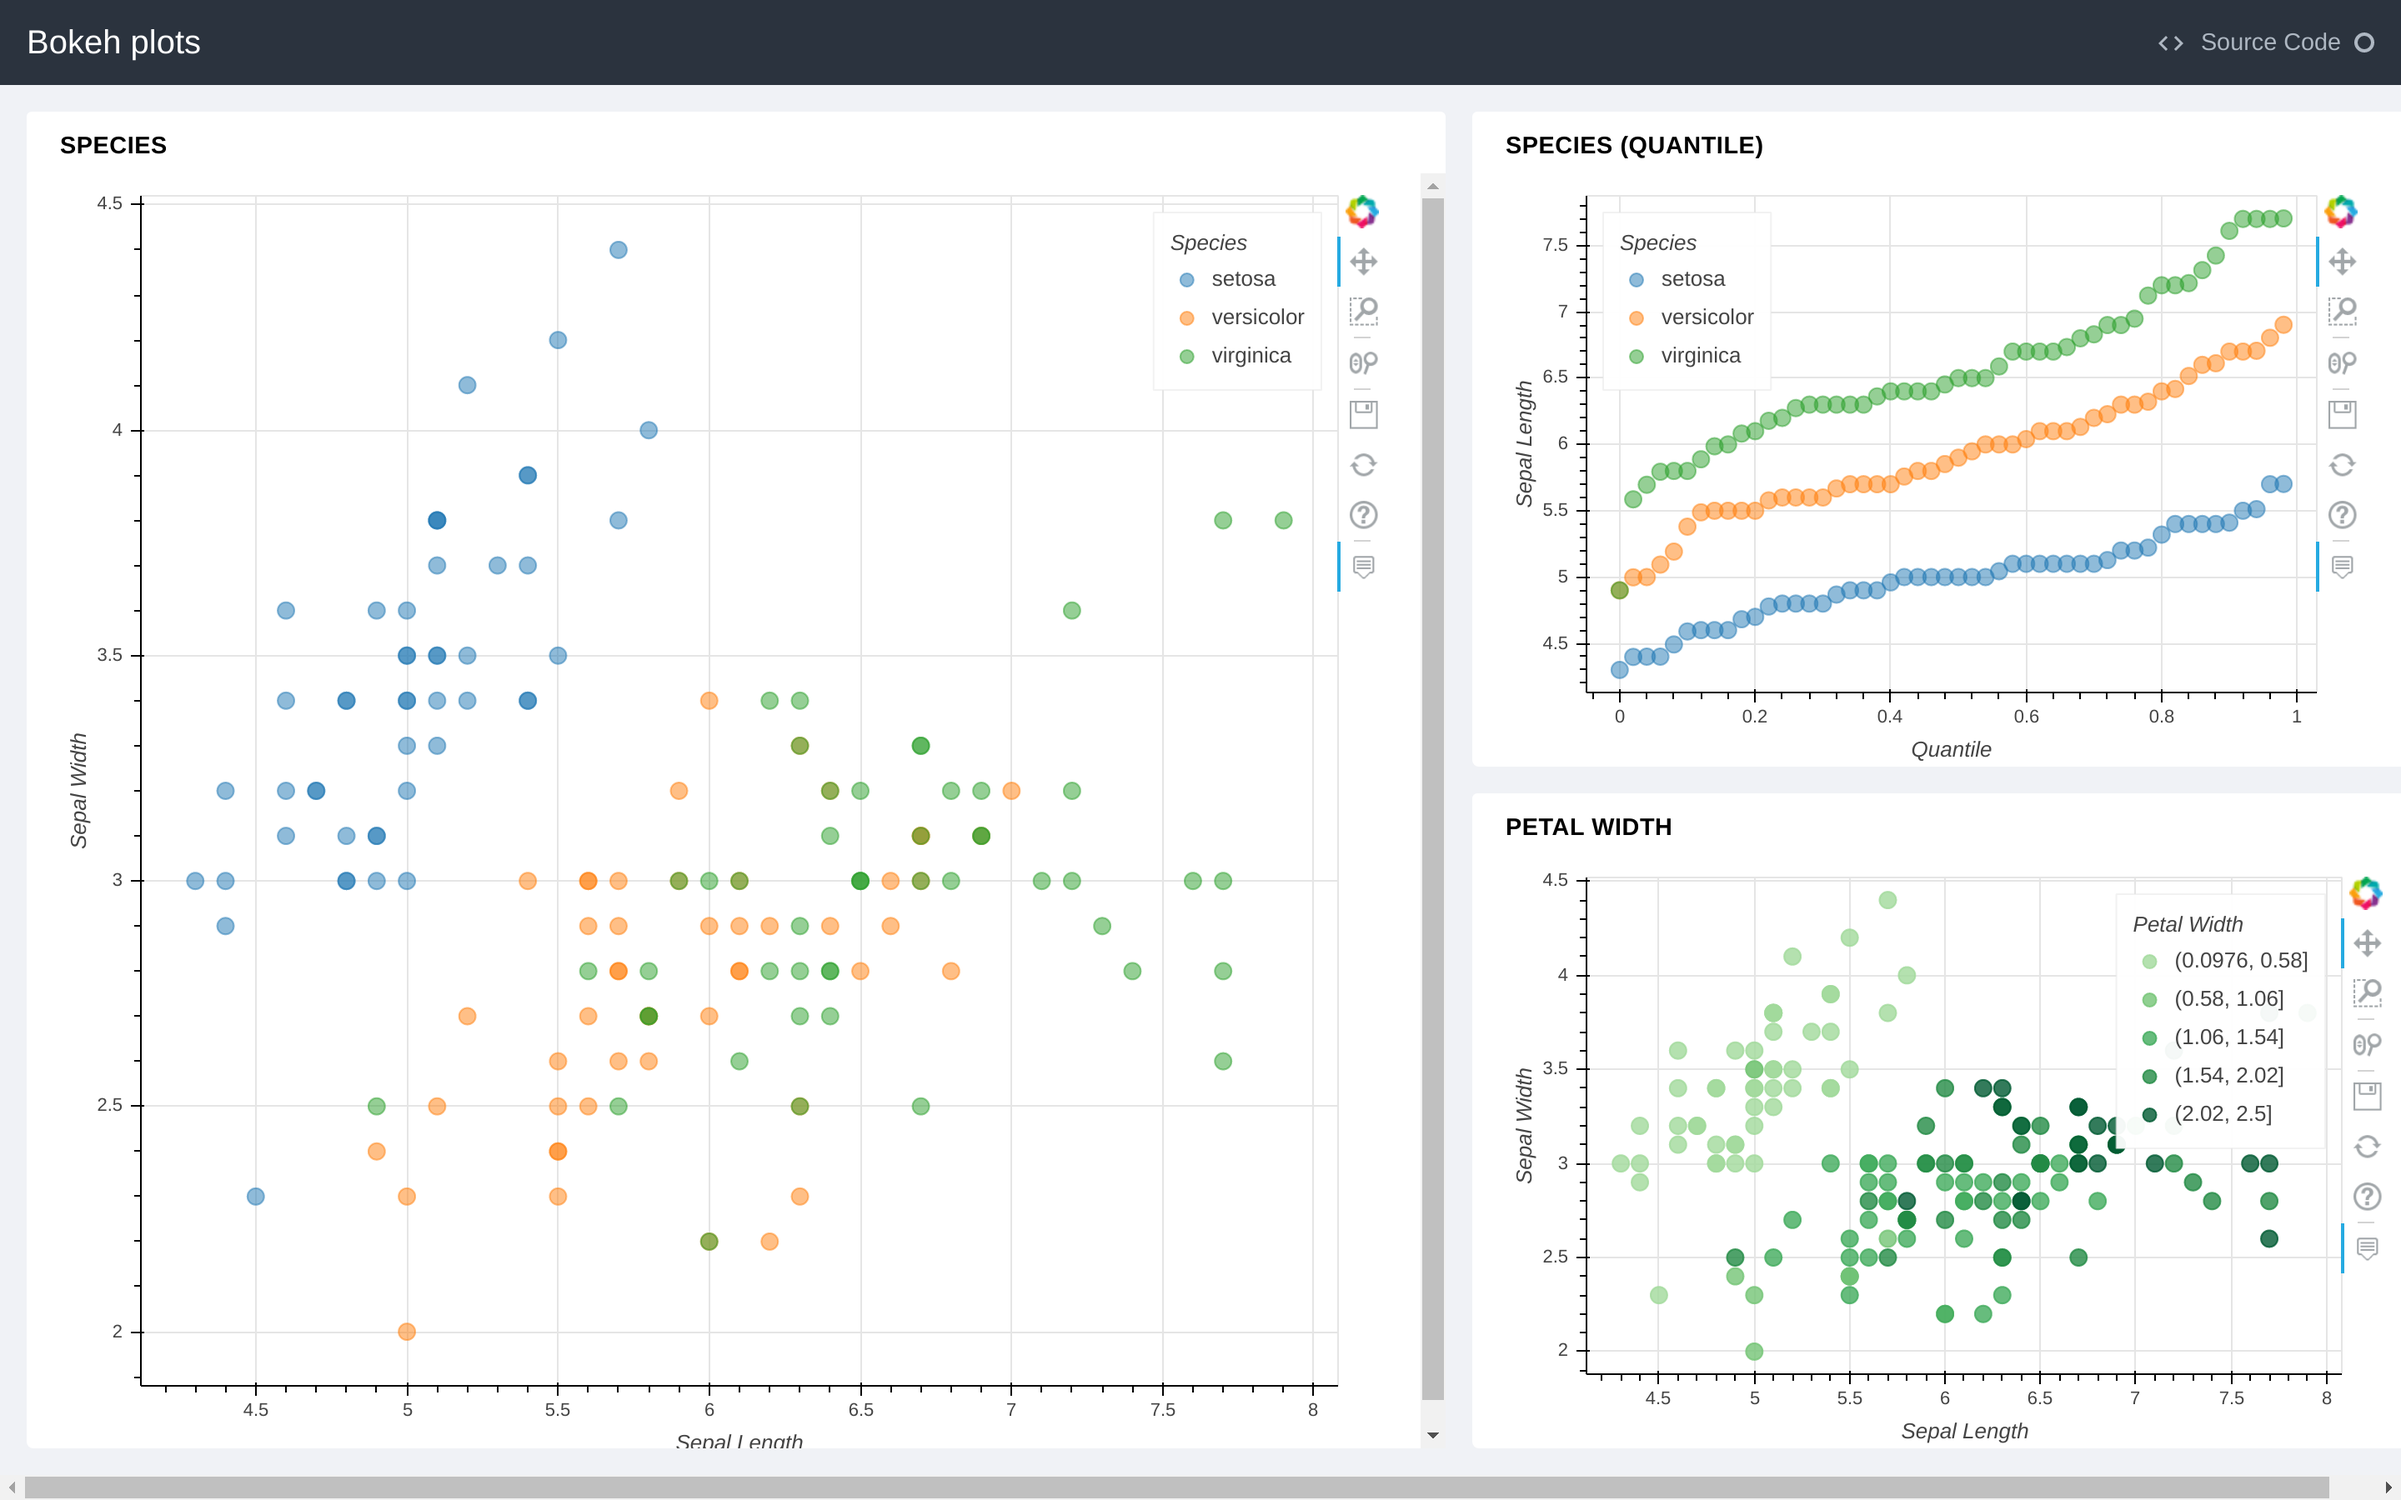
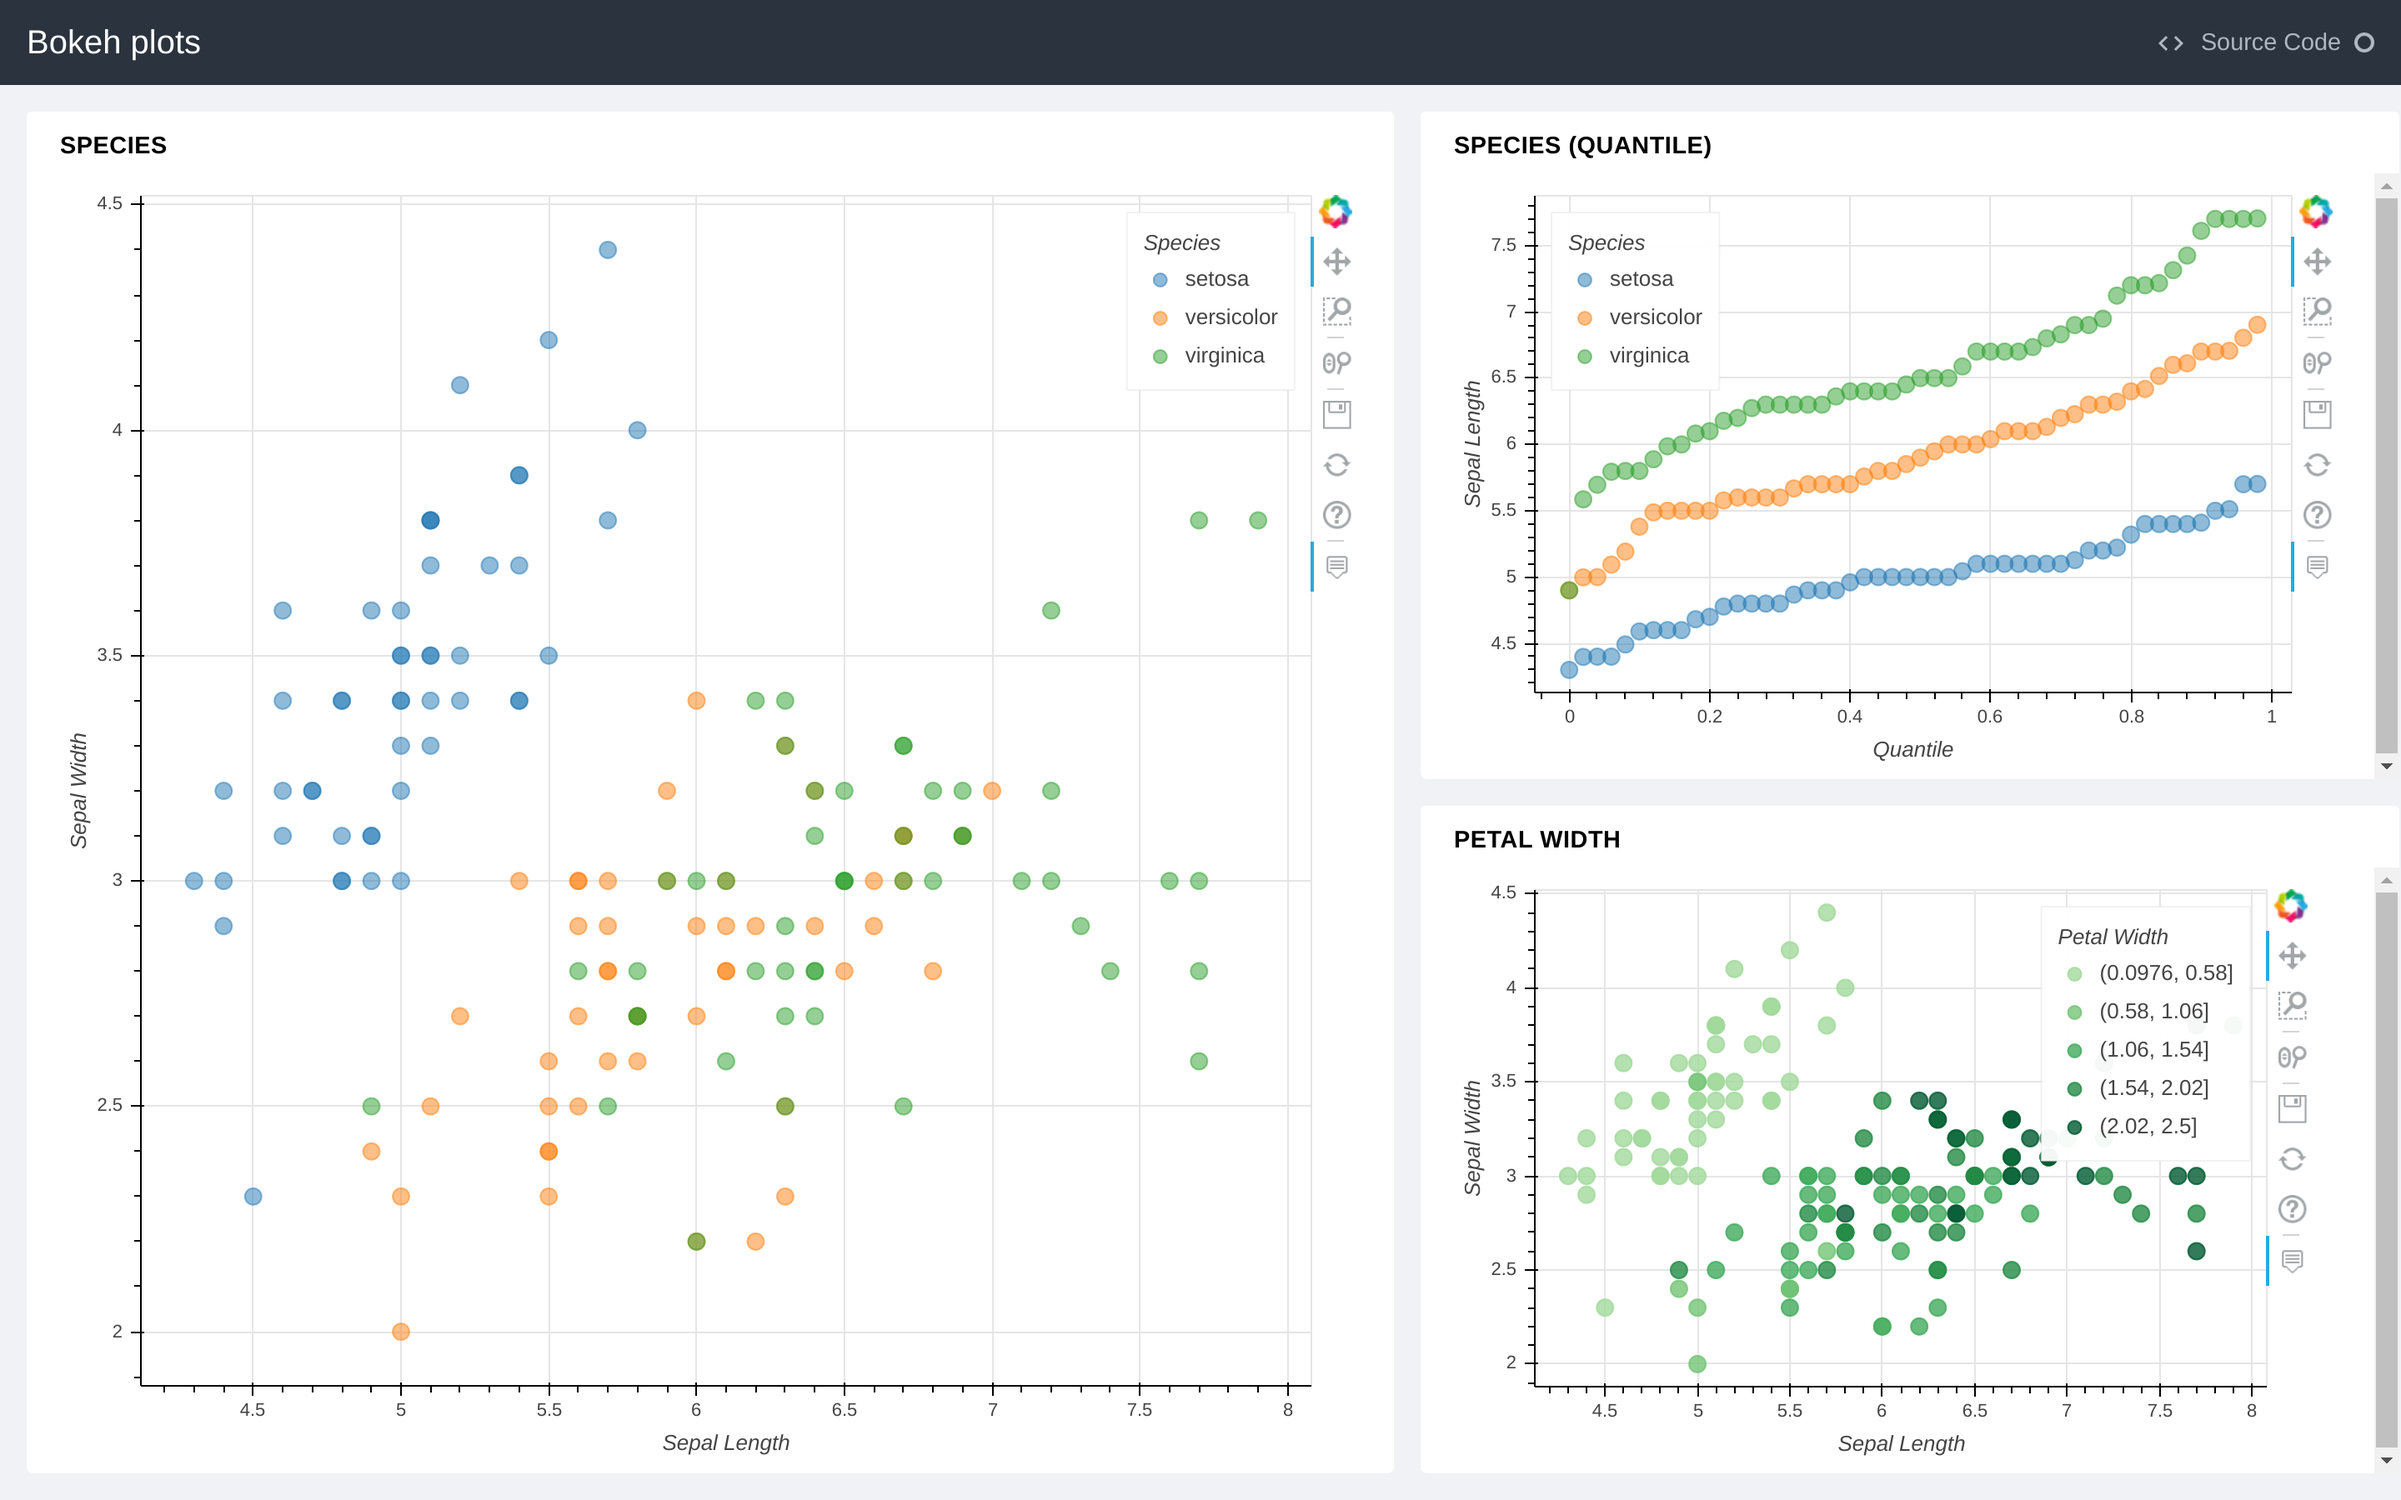
Add threshold

diff --git a/jupyter_flex/tests/test_examples.py b/jupyter_flex/tests/test_examples.py
@@ -16,7 +16,7 @@ def test_example_site(needle, myselenium):
     needle.driver.get(target_url)
 
     # Take an element screen diff
-    needle.assert_screenshot('example_site')
+    needle.assert_screenshot('example_site', threshold=5000)
 
 
 @pytest.mark.parametrize("nb_name", ["iris-clustering", "movie-explorer", "nba-scoring", "wealth-of-nations"])
@@ -28,7 +28,7 @@ def test_example_nb(needle, myselenium, base_url, nb_name):
     time.sleep(5)
 
     # Take an element screen diff
-    needle.assert_screenshot(f'{nb_name}')
+    needle.assert_screenshot(f'{nb_name}', threshold=5000)
 
 
 @pytest.mark.parametrize("nb_name", [
@@ -43,7 +43,7 @@ def test_customize(needle, myselenium, base_url, nb_name):
     time.sleep(5)
 
     # Take an element screen diff
-    needle.assert_screenshot(f'customize/{nb_name}')
+    needle.assert_screenshot(f'customize/{nb_name}', threshold=5000)
 
 
 @pytest.mark.parametrize("nb_name", [
@@ -60,7 +60,7 @@ def test_getting_started(needle, myselenium, base_url, nb_name):
     time.sleep(5)
 
     # Take an element screen diff
-    needle.assert_screenshot(f'getting-started/{nb_name}')
+    needle.assert_screenshot(f'getting-started/{nb_name}', threshold=5000)
 
 
 @pytest.mark.parametrize("nb_name", [
@@ -86,7 +86,7 @@ def test_layouts(needle, myselenium, base_url, nb_name):
     time.sleep(5)
 
     # Take an element screen diff
-    needle.assert_screenshot(f'layouts/{nb_name}')
+    needle.assert_screenshot(f'layouts/{nb_name}', threshold=5000)
 
 
 @pytest.mark.parametrize("nb_name", [
@@ -108,7 +108,7 @@ def test_plots(needle, myselenium, base_url, nb_name):
     time.sleep(5)
 
     # Take an element screen diff
-    needle.assert_screenshot(f'plots/{nb_name}')
+    needle.assert_screenshot(f'plots/{nb_name}', threshold=5000)
 
 
 @pytest.mark.parametrize("nb_name", [
@@ -126,4 +126,4 @@ def test_widgets(needle, myselenium, base_url, nb_name):
     time.sleep(10)
 
     # Take an element screen diff
-    needle.assert_screenshot(f'widgets/{nb_name}')
+    needle.assert_screenshot(f'widgets/{nb_name}', threshold=5000)
